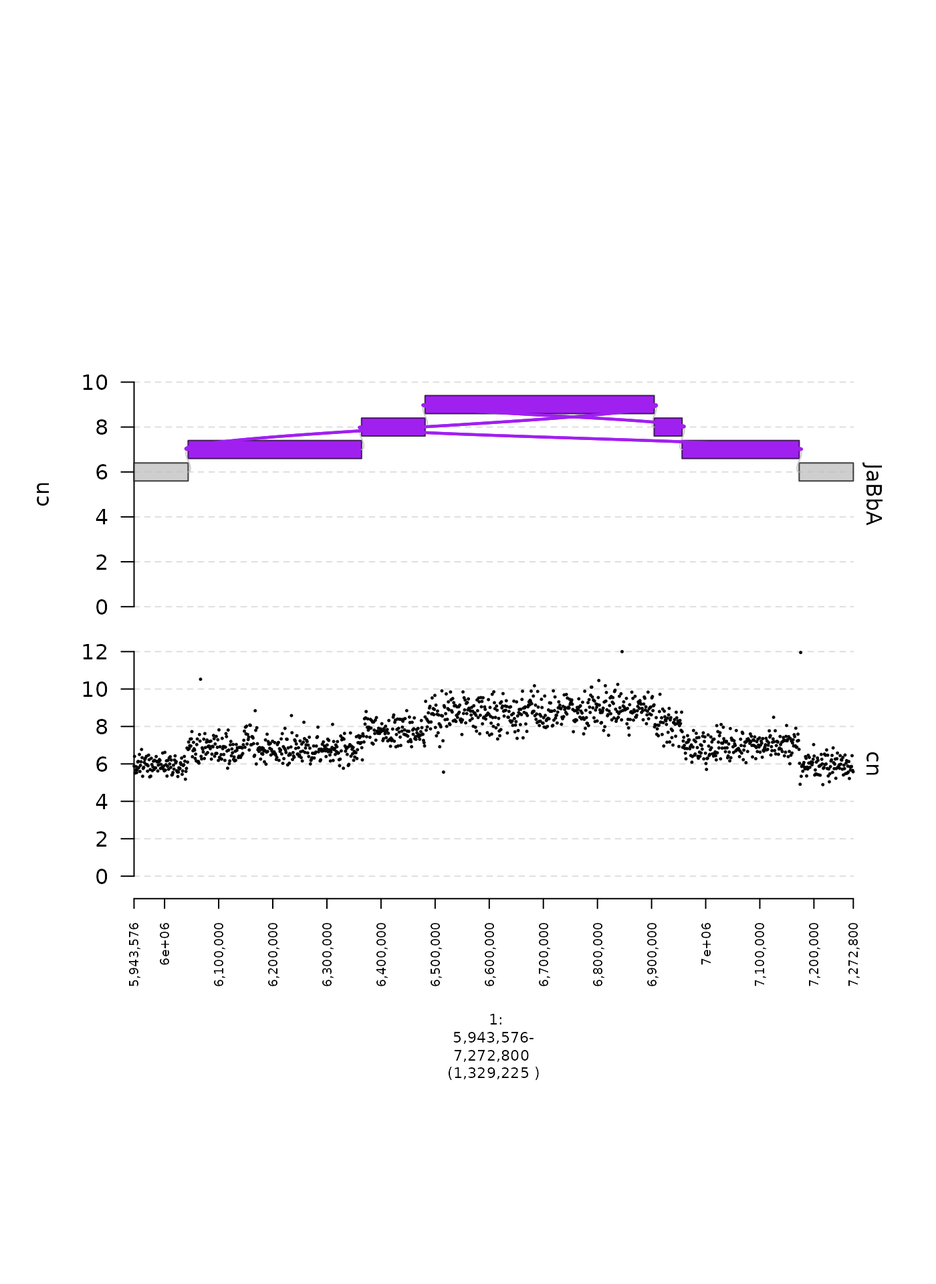
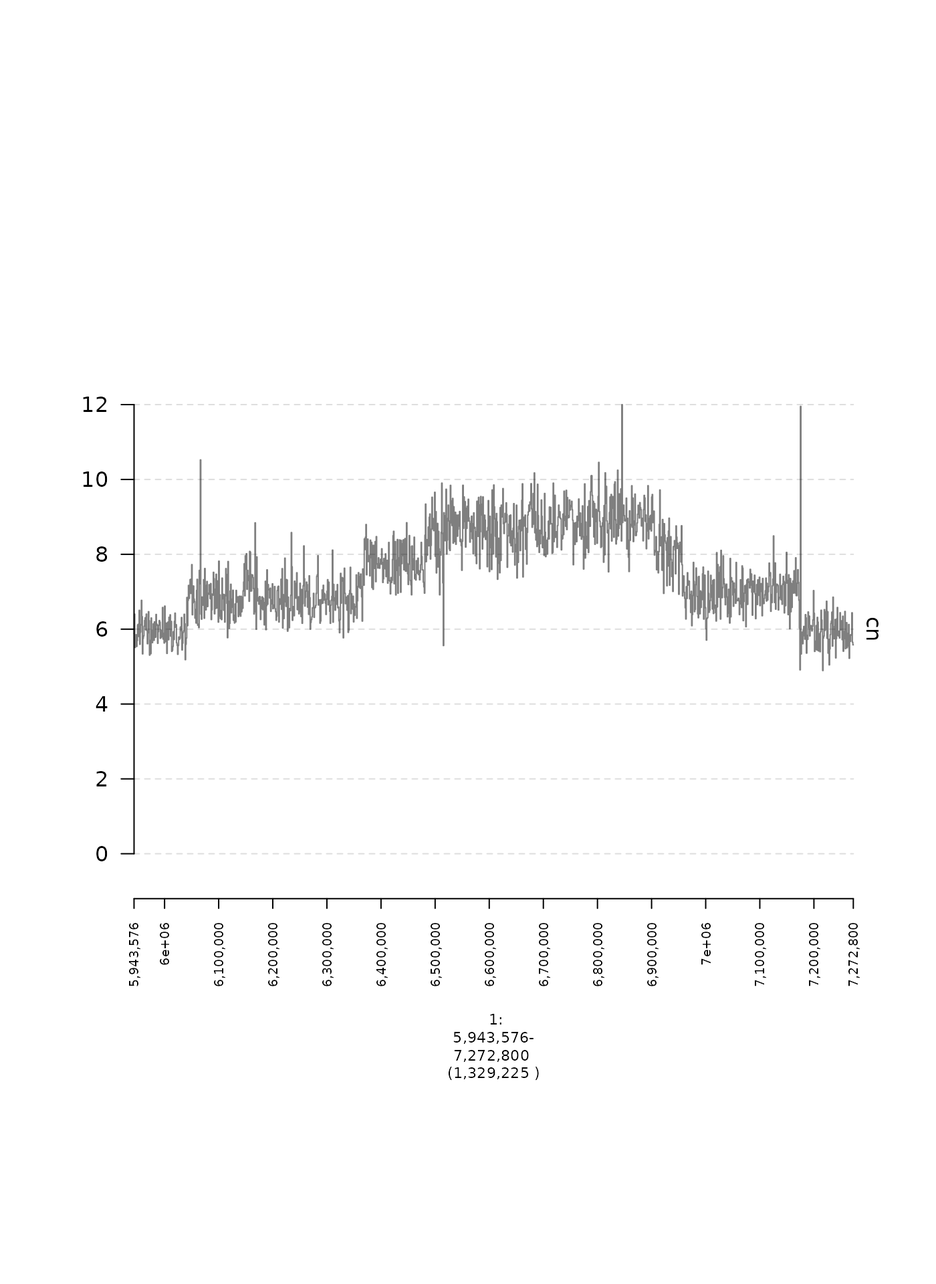
Deploying to gh-pages from @ zining01/gTrack@fb4e8e4ecd5b667f04a0693977f4defb36c34628 🚀

diff --git a/articles/quickstart.html b/articles/quickstart.html
@@ -99,48 +99,82 @@
 <p>GRanges can be used as the starting point for creating scatter plots, bar plots, and line plots. The <code>x</code>-coordinate of each data point in these plots is specified by the genomic position, while the <code>y</code>-coordinate is stored in a user-defined metadata column of the <code>GRanges</code> object.</p>
 <p>In this example, we will create <code>gTrack</code>s to plot read depth in 1 Kbp genomic intervals.</p>
 <div class="section level3">
-<h3 id="scatter-plot">Scatter plot<a class="anchor" aria-label="anchor" href="#scatter-plot"></a>
+<h3 id="rectangles">Rectangles<a class="anchor" aria-label="anchor" href="#rectangles"></a>
 </h3>
-<p>In this first example, we will create a scatter plot. The (normalized) read depth is contained in a metadata column called <code>cn</code>. We need to specify this column name in the argument <code>y.field</code> when creating our gTrack. In addition, to create a scatter plot, we need to set the parameter <code>circles</code> to <code>TRUE</code>. The parameter <code>lwd.border</code> controls the size of the points in the scatter plot, the parameter <code>y0</code> controls the starting position on the y axis, and the parameter <code>y1</code> controls the ending position on the y axis.</p>
+<p>The most basic plot in gTrack will represent each supplied genomic interval as a rectangle. If strand is provided, the verticle edges of the rectangle will be bent in a direction indicating strand (towards the right for <code>+</code> stranded intervals, and towards the left for <code>-</code> stranded intervals. This <code>GRanges</code> contains genomic bins that are all 1 Kbp in width without a strand. However, for the purposes of demonstration, we will also plot some stranded intervals to demonstrate the effect.</p>
 <div class="sourceCode" id="cb1"><pre class="downlit sourceCode r">
 <code class="sourceCode R"><span><span class="va">coverage.gr</span> <span class="op">=</span> <span class="fu"><a href="https://rdrr.io/r/base/readRDS.html" class="external-link">readRDS</a></span><span class="op">(</span><span class="fu"><a href="https://rdrr.io/r/base/system.file.html" class="external-link">system.file</a></span><span class="op">(</span><span class="st">"extdata"</span>, <span class="st">"ovcar.subgraph.coverage.rds"</span>, package <span class="op">=</span> <span class="st">"gTrack"</span><span class="op">)</span><span class="op">)</span></span>
-<span><span class="va">coverage.gt</span> <span class="op">=</span> <span class="fu"><a href="../reference/gTrack-class.html">gTrack</a></span><span class="op">(</span><span class="va">coverage.gr</span>, y.field <span class="op">=</span> <span class="st">"cn"</span>, circles <span class="op">=</span> <span class="cn">TRUE</span>, lwd.border <span class="op">=</span> <span class="fl">0.2</span>, y0 <span class="op">=</span> <span class="fl">0</span>, y1 <span class="op">=</span> <span class="fl">12</span><span class="op">)</span></span></code></pre></div>
+<span></span>
+<span><span class="co">## create a plus stranded interval</span></span>
+<span><span class="va">plus.coverage.gr</span> <span class="op">=</span> <span class="fu"><a href="https://rdrr.io/r/base/readRDS.html" class="external-link">readRDS</a></span><span class="op">(</span><span class="fu"><a href="https://rdrr.io/r/base/system.file.html" class="external-link">system.file</a></span><span class="op">(</span><span class="st">"extdata"</span>, <span class="st">"ovcar.subgraph.coverage.rds"</span>, package <span class="op">=</span> <span class="st">"gTrack"</span><span class="op">)</span><span class="op">)</span></span>
+<span><span class="fu">strand</span><span class="op">(</span><span class="va">plus.coverage.gr</span><span class="op">)</span> <span class="op">=</span> <span class="st">"+"</span></span>
+<span><span class="va">minus.coverage.gr</span> <span class="op">=</span> <span class="fu"><a href="https://rdrr.io/r/base/readRDS.html" class="external-link">readRDS</a></span><span class="op">(</span><span class="fu"><a href="https://rdrr.io/r/base/system.file.html" class="external-link">system.file</a></span><span class="op">(</span><span class="st">"extdata"</span>, <span class="st">"ovcar.subgraph.coverage.rds"</span>, package <span class="op">=</span> <span class="st">"gTrack"</span><span class="op">)</span><span class="op">)</span></span>
+<span><span class="fu">strand</span><span class="op">(</span><span class="va">minus.coverage.gr</span><span class="op">)</span> <span class="op">=</span> <span class="st">"-"</span></span>
+<span></span>
+<span><span class="co">## create gTracks</span></span>
+<span><span class="va">coverage.gt</span> <span class="op">=</span> <span class="fu"><a href="../reference/gTrack-class.html">gTrack</a></span><span class="op">(</span><span class="va">coverage.gr</span><span class="op">)</span></span>
+<span><span class="va">plus.coverage.gt</span> <span class="op">=</span> <span class="fu"><a href="../reference/gTrack-class.html">gTrack</a></span><span class="op">(</span><span class="va">plus.coverage.gr</span><span class="op">)</span></span>
+<span><span class="va">minus.coverage.gt</span> <span class="op">=</span> <span class="fu"><a href="../reference/gTrack-class.html">gTrack</a></span><span class="op">(</span><span class="va">minus.coverage.gr</span><span class="op">)</span></span></code></pre></div>
 <p>To generate a plot, the <code>plot</code> method is used, which takes two positional arguments, a <code>gTrack</code> and a genomic window over which to generate the plot. The genomic window can be specified as either a <code>GRanges</code>, <code>GRangesList</code>, or a character vector that can be parsed as <code>GRanges</code>. (If <code>window</code> is <code>NULL</code>, then all genomic regions defined in the supplied gTrack will be plotted).</p>
+<p>Here is the original (unstranded) intervals:</p>
 <div class="sourceCode" id="cb2"><pre class="downlit sourceCode r">
+<code class="sourceCode R"><span><span class="co">## specify genomic region that will be plotted</span></span>
+<span><span class="va">fp</span> <span class="op">=</span> <span class="fu">parse.gr</span><span class="op">(</span><span class="st">"1:6850000-7050000"</span><span class="op">)</span></span>
+<span><span class="fu"><a href="https://rdrr.io/r/graphics/plot.default.html" class="external-link">plot</a></span><span class="op">(</span><span class="va">coverage.gt</span>, <span class="va">fp</span><span class="op">)</span></span></code></pre></div>
+<p><img src="quickstart_files/figure-html/unnamed-chunk-3-1.png" width="700"></p>
+<p>Here is the <code>+</code> stranded intervals:</p>
+<div class="sourceCode" id="cb3"><pre class="downlit sourceCode r">
+<code class="sourceCode R"><span><span class="co">## specify genomic region that will be plotted</span></span>
+<span><span class="fu"><a href="https://rdrr.io/r/graphics/plot.default.html" class="external-link">plot</a></span><span class="op">(</span><span class="va">plus.coverage.gt</span>, <span class="va">fp</span><span class="op">)</span></span></code></pre></div>
+<p><img src="quickstart_files/figure-html/unnamed-chunk-4-1.png" width="700"></p>
+<p>Here is the <code>-</code> stranded intervals:</p>
+<div class="sourceCode" id="cb4"><pre class="downlit sourceCode r">
+<code class="sourceCode R"><span><span class="co">## specify genomic region that will be plotted</span></span>
+<span><span class="fu"><a href="https://rdrr.io/r/graphics/plot.default.html" class="external-link">plot</a></span><span class="op">(</span><span class="va">minus.coverage.gt</span>, <span class="va">fp</span><span class="op">)</span></span></code></pre></div>
+<p><img src="quickstart_files/figure-html/unnamed-chunk-5-1.png" width="700"></p>
+</div>
+<div class="section level3">
+<h3 id="scatter-plot">Scatter plot<a class="anchor" aria-label="anchor" href="#scatter-plot"></a>
+</h3>
+<p>In this example, we will create a scatter plot. In this <code>GRanges</code>, the (normalized) read depth is contained in a metadata column called <code>cn</code>. We need to specify this column name in the argument <code>y.field</code> when creating our gTrack. To create a scatter plot, we need to set the parameter <code>circles</code> to <code>TRUE</code>. The parameter <code>lwd.border</code> controls the size of the points in the scatter plot, the parameter <code>y0</code> controls the starting position on the y axis, and the parameter <code>y1</code> controls the ending position on the y axis.</p>
+<div class="sourceCode" id="cb5"><pre class="downlit sourceCode r">
+<code class="sourceCode R"><span><span class="va">coverage.gr</span> <span class="op">=</span> <span class="fu"><a href="https://rdrr.io/r/base/readRDS.html" class="external-link">readRDS</a></span><span class="op">(</span><span class="fu"><a href="https://rdrr.io/r/base/system.file.html" class="external-link">system.file</a></span><span class="op">(</span><span class="st">"extdata"</span>, <span class="st">"ovcar.subgraph.coverage.rds"</span>, package <span class="op">=</span> <span class="st">"gTrack"</span><span class="op">)</span><span class="op">)</span></span>
+<span><span class="va">coverage.gt</span> <span class="op">=</span> <span class="fu"><a href="../reference/gTrack-class.html">gTrack</a></span><span class="op">(</span><span class="va">coverage.gr</span>, y.field <span class="op">=</span> <span class="st">"cn"</span>, circles <span class="op">=</span> <span class="cn">TRUE</span>, lwd.border <span class="op">=</span> <span class="fl">0.2</span>, y0 <span class="op">=</span> <span class="fl">0</span>, y1 <span class="op">=</span> <span class="fl">12</span><span class="op">)</span></span></code></pre></div>
+<div class="sourceCode" id="cb6"><pre class="downlit sourceCode r">
 <code class="sourceCode R"><span><span class="co">## specify genomic region that will be plotted</span></span>
 <span><span class="va">fp</span> <span class="op">=</span> <span class="fu">parse.gr</span><span class="op">(</span><span class="st">"1:6043576-7172800"</span><span class="op">)</span></span>
 <span><span class="fu"><a href="https://rdrr.io/r/graphics/plot.default.html" class="external-link">plot</a></span><span class="op">(</span><span class="va">coverage.gt</span>, <span class="va">fp</span> <span class="op">+</span> <span class="fl">1e5</span><span class="op">)</span></span></code></pre></div>
-<p><img src="quickstart_files/figure-html/unnamed-chunk-3-1.png" width="700"></p>
+<p><img src="quickstart_files/figure-html/unnamed-chunk-7-1.png" width="700"></p>
 </div>
 <div class="section level3">
 <h3 id="bar-plot">Bar plot<a class="anchor" aria-label="anchor" href="#bar-plot"></a>
 </h3>
 <p>Next, we will plot the same data as a bar plot. To do this, we will set the parameter <code>bars</code> to <code>TRUE</code>.</p>
-<div class="sourceCode" id="cb3"><pre class="downlit sourceCode r">
+<div class="sourceCode" id="cb7"><pre class="downlit sourceCode r">
 <code class="sourceCode R"><span><span class="va">coverage.bars.gt</span> <span class="op">=</span> <span class="fu"><a href="../reference/gTrack-class.html">gTrack</a></span><span class="op">(</span><span class="va">coverage.gr</span>, y.field <span class="op">=</span> <span class="st">"cn"</span>, bars <span class="op">=</span> <span class="cn">TRUE</span>, y0 <span class="op">=</span> <span class="fl">0</span>, y1 <span class="op">=</span> <span class="fl">12</span><span class="op">)</span></span>
 <span></span>
 <span><span class="fu"><a href="https://rdrr.io/r/graphics/plot.default.html" class="external-link">plot</a></span><span class="op">(</span><span class="va">coverage.bars.gt</span>, <span class="va">fp</span> <span class="op">+</span> <span class="fl">1e5</span><span class="op">)</span></span></code></pre></div>
-<p><img src="quickstart_files/figure-html/unnamed-chunk-4-1.png" width="700"></p>
+<p><img src="quickstart_files/figure-html/unnamed-chunk-8-1.png" width="700"></p>
 </div>
 <div class="section level3">
 <h3 id="line-plot">Line plot<a class="anchor" aria-label="anchor" href="#line-plot"></a>
 </h3>
 <p>Finally, we will plot these data as a line plot, by setting <code>lines</code> to <code>TRUE</code>.</p>
-<div class="sourceCode" id="cb4"><pre class="downlit sourceCode r">
+<div class="sourceCode" id="cb8"><pre class="downlit sourceCode r">
 <code class="sourceCode R"><span><span class="va">coverage.lines.gt</span> <span class="op">=</span> <span class="fu"><a href="../reference/gTrack-class.html">gTrack</a></span><span class="op">(</span><span class="va">coverage.gr</span>, y.field <span class="op">=</span> <span class="st">"cn"</span>, lines <span class="op">=</span> <span class="cn">TRUE</span>, y0 <span class="op">=</span> <span class="fl">0</span>, y1 <span class="op">=</span> <span class="fl">12</span><span class="op">)</span></span>
 <span></span>
 <span><span class="fu"><a href="https://rdrr.io/r/graphics/plot.default.html" class="external-link">plot</a></span><span class="op">(</span><span class="va">coverage.lines.gt</span>, <span class="va">fp</span> <span class="op">+</span> <span class="fl">1e5</span><span class="op">)</span></span></code></pre></div>
-<p><img src="quickstart_files/figure-html/unnamed-chunk-5-1.png" width="700"></p>
+<p><img src="quickstart_files/figure-html/unnamed-chunk-9-1.png" width="700"></p>
 </div>
 <div class="section level3">
 <h3 id="multiple-plots">Multiple plots<a class="anchor" aria-label="anchor" href="#multiple-plots"></a>
 </h3>
 <p>A useful feature of <code>gTrack</code> objects is that multiple tracks can be concatenated to produce stacked subplots, as shown in the following example. The direction of concatenation is from the bottom up (so the first <code>gTrack</code> corresponds with the bottom-most subplot and the final <code>gTrack</code> corresponds with the top-most subplot).</p>
-<div class="sourceCode" id="cb5"><pre class="downlit sourceCode r">
+<div class="sourceCode" id="cb9"><pre class="downlit sourceCode r">
 <code class="sourceCode R"><span><span class="va">concatenated.gt</span> <span class="op">=</span> <span class="fu"><a href="../reference/c-methods.html">c</a></span><span class="op">(</span><span class="va">coverage.gt</span>, <span class="va">coverage.bars.gt</span>, <span class="va">coverage.lines.gt</span><span class="op">)</span></span>
 <span></span>
 <span><span class="fu"><a href="https://rdrr.io/r/graphics/plot.default.html" class="external-link">plot</a></span><span class="op">(</span><span class="va">concatenated.gt</span>, <span class="va">fp</span> <span class="op">+</span> <span class="fl">1e5</span><span class="op">)</span></span></code></pre></div>
-<p><img src="quickstart_files/figure-html/unnamed-chunk-6-1.png" width="700"></p>
+<p><img src="quickstart_files/figure-html/unnamed-chunk-10-1.png" width="700"></p>
 </div>
 </div>
 <div class="section level2">
@@ -150,12 +184,12 @@
 <p>In this example, we will create a gTrack from junction-supporting read pairs. Briefly, these are read pairs that form split, gapped, or discordant alignments, hinting at the existence of a genomic rearrangement.</p>
 <p>The alignments associated with each read pair are represented by a single entry in this example’s <code>GRangesList</code>. In the corresponding gTrack, alignments from the same <code>GRangesList</code> entry are linked together by a light gray horizontal line, making it easy for them to be visually associated.</p>
 <p>You can see that there are many junction-supporting reads associated with read depth change points in the coverage <code>gTrack</code> which makes sense because aberrant adjacencies can produce copy number variants.</p>
-<div class="sourceCode" id="cb6"><pre class="downlit sourceCode r">
+<div class="sourceCode" id="cb10"><pre class="downlit sourceCode r">
 <code class="sourceCode R"><span><span class="va">reads</span> <span class="op">=</span> <span class="fu"><a href="https://rdrr.io/r/base/readRDS.html" class="external-link">readRDS</a></span><span class="op">(</span><span class="fu"><a href="https://rdrr.io/r/base/system.file.html" class="external-link">system.file</a></span><span class="op">(</span><span class="st">"extdata"</span>, <span class="st">"ovcar.subgraph.reads.rds"</span>, package <span class="op">=</span> <span class="st">"gTrack"</span><span class="op">)</span><span class="op">)</span></span>
 <span><span class="va">reads.gt</span> <span class="op">=</span> <span class="fu"><a href="../reference/gTrack-class.html">gTrack</a></span><span class="op">(</span><span class="va">reads</span><span class="op">)</span></span>
 <span></span>
 <span><span class="fu"><a href="https://rdrr.io/r/graphics/plot.default.html" class="external-link">plot</a></span><span class="op">(</span><span class="fu"><a href="../reference/c-methods.html">c</a></span><span class="op">(</span><span class="va">coverage.gt</span>, <span class="va">reads.gt</span><span class="op">)</span>, <span class="va">fp</span> <span class="op">+</span> <span class="fl">1e5</span><span class="op">)</span></span></code></pre></div>
-<p><img src="quickstart_files/figure-html/unnamed-chunk-7-1.png" width="700"></p>
+<p><img src="quickstart_files/figure-html/unnamed-chunk-11-1.png" width="700"></p>
 </div>
 <div class="section level2">
 <h2 id="matrices">Matrices<a class="anchor" aria-label="anchor" href="#matrices"></a>
@@ -166,14 +200,14 @@
 <p>A <code>gTrack</code> can be created from a <code>GRanges</code> and a corresponding adjacency matrix in order to plot associations between two genomic ranges. One example of this would be a heatmap, where the color of each cell is proportional to some value defined by its corresponding genomic regions.</p>
 <p>In this example, we will create a heatmap of the number of shared read <code>qname</code>s between pairs of genomic intervals. We will read a <code>GRanges</code> and associated <code>matrix</code> and create a <code>gTrack</code> from these inputs, which we will plot alongside the coverage.</p>
 <p>As you can see, the off-diagonal elements correspond with copy number changep points in the coverage!</p>
-<div class="sourceCode" id="cb7"><pre class="downlit sourceCode r">
+<div class="sourceCode" id="cb11"><pre class="downlit sourceCode r">
 <code class="sourceCode R"><span><span class="va">mdata.mat</span> <span class="op">=</span> <span class="fu"><a href="https://rdrr.io/r/base/readRDS.html" class="external-link">readRDS</a></span><span class="op">(</span><span class="fu"><a href="https://rdrr.io/r/base/system.file.html" class="external-link">system.file</a></span><span class="op">(</span><span class="st">"extdata"</span>, <span class="st">"ovcar.subgraph.mdata.mat.rds"</span>, package <span class="op">=</span> <span class="st">"gTrack"</span><span class="op">)</span><span class="op">)</span></span>
 <span><span class="va">mdata.gr</span> <span class="op">=</span> <span class="fu"><a href="https://rdrr.io/r/base/readRDS.html" class="external-link">readRDS</a></span><span class="op">(</span><span class="fu"><a href="https://rdrr.io/r/base/system.file.html" class="external-link">system.file</a></span><span class="op">(</span><span class="st">"extdata"</span>, <span class="st">"ovcar.subgraph.mdata.gr.rds"</span>, package <span class="op">=</span> <span class="st">"gTrack"</span><span class="op">)</span><span class="op">)</span></span>
 <span></span>
 <span><span class="va">heatmap.gt</span> <span class="op">=</span> <span class="fu"><a href="../reference/gTrack-class.html">gTrack</a></span><span class="op">(</span><span class="va">mdata.gr</span>, mdata <span class="op">=</span> <span class="va">mdata.mat</span>, cmap.max <span class="op">=</span> <span class="fl">10</span><span class="op">)</span></span>
 <span></span>
 <span><span class="fu"><a href="https://rdrr.io/r/graphics/plot.default.html" class="external-link">plot</a></span><span class="op">(</span><span class="fu"><a href="../reference/c-methods.html">c</a></span><span class="op">(</span><span class="va">coverage.gt</span>, <span class="va">heatmap.gt</span><span class="op">)</span>, <span class="va">fp</span> <span class="op">+</span> <span class="fl">1e5</span><span class="op">)</span></span></code></pre></div>
-<p><img src="quickstart_files/figure-html/unnamed-chunk-8-1.png" width="700"></p>
+<p><img src="quickstart_files/figure-html/unnamed-chunk-12-1.png" width="700"></p>
 </div>
 <div class="section level3">
 <h3 id="connections-edges">Connections (edges)<a class="anchor" aria-label="anchor" href="#connections-edges"></a>
@@ -189,30 +223,30 @@
 </h2>
 <p><code>gGraph</code>s are genome graphs in which nodes represent (signed) genomic intervals, and edges represent adjacencies between those intervals (see our <code>gGnome</code> package <a href="https://github.com/mskilab/gGnome" class="external-link">here</a>!).</p>
 <p>A <code>gTrack</code> can be created from a <code>gGraph</code> using either the <code>$gt</code> active field or <code>$gtrack</code> method, as shown below. In this example, we will create a plot of a tumor <code>gGraph</code> and the associated coverage profile.</p>
-<div class="sourceCode" id="cb8"><pre class="downlit sourceCode r">
+<div class="sourceCode" id="cb12"><pre class="downlit sourceCode r">
 <code class="sourceCode R"><span><span class="va">gg</span> <span class="op">=</span> <span class="fu"><a href="https://rdrr.io/r/base/readRDS.html" class="external-link">readRDS</a></span><span class="op">(</span><span class="fu"><a href="https://rdrr.io/r/base/system.file.html" class="external-link">system.file</a></span><span class="op">(</span><span class="st">"extdata"</span>, <span class="st">"ovcar.subgraph.rds"</span>, package <span class="op">=</span> <span class="st">"gTrack"</span><span class="op">)</span><span class="op">)</span></span>
 <span><span class="fu"><a href="https://rdrr.io/r/graphics/plot.default.html" class="external-link">plot</a></span><span class="op">(</span><span class="fu"><a href="../reference/c-methods.html">c</a></span><span class="op">(</span><span class="va">coverage.gt</span>, <span class="va">gg</span><span class="op">$</span><span class="va">gt</span><span class="op">)</span>, <span class="va">fp</span> <span class="op">+</span> <span class="fl">1e5</span><span class="op">)</span></span></code></pre></div>
-<p><img src="quickstart_files/figure-html/unnamed-chunk-9-1.png" width="700"></p>
+<p><img src="quickstart_files/figure-html/unnamed-chunk-13-1.png" width="700"></p>
 </div>
 <div class="section level2">
 <h2 id="gwalk">gWalk<a class="anchor" aria-label="anchor" href="#gwalk"></a>
 </h2>
 <p><code>gWalk</code>s represent paths through a <code>gGraph</code>. Generally, they represent somatic haplotypes that could exist in a genome corresponding with a give <code>gGraph</code> (more details in the <code>gGnome</code> package!). Like <code>gGraph</code>s, <code>gWalk</code>s have active field <code>$gt</code> and method <code>$gtrack</code>, both of which will produce a <code>gTrack</code>.</p>
 <p>The following example plots a set of <code>gWalk</code>s associated with the <code>gGraph</code> plotted above.</p>
-<div class="sourceCode" id="cb9"><pre class="downlit sourceCode r">
+<div class="sourceCode" id="cb13"><pre class="downlit sourceCode r">
 <code class="sourceCode R"><span><span class="va">wks</span> <span class="op">=</span> <span class="fu"><a href="https://rdrr.io/r/base/readRDS.html" class="external-link">readRDS</a></span><span class="op">(</span><span class="fu"><a href="https://rdrr.io/r/base/system.file.html" class="external-link">system.file</a></span><span class="op">(</span><span class="st">"extdata"</span>, <span class="st">"ovcar.subgraph.walks.rds"</span>, package <span class="op">=</span> <span class="st">"gTrack"</span><span class="op">)</span><span class="op">)</span></span>
 <span><span class="fu"><a href="https://rdrr.io/r/graphics/plot.default.html" class="external-link">plot</a></span><span class="op">(</span><span class="fu"><a href="../reference/c-methods.html">c</a></span><span class="op">(</span><span class="va">coverage.gt</span>, <span class="va">gg</span><span class="op">$</span><span class="va">gt</span>, <span class="va">wks</span><span class="op">$</span><span class="va">gt</span><span class="op">)</span>, <span class="va">fp</span> <span class="op">+</span> <span class="fl">1e5</span><span class="op">)</span></span></code></pre></div>
-<p><img src="quickstart_files/figure-html/unnamed-chunk-10-1.png" width="700"></p>
+<p><img src="quickstart_files/figure-html/unnamed-chunk-14-1.png" width="700"></p>
 </div>
 <div class="section level2">
 <h2 id="gmatrix">gMatrix<a class="anchor" aria-label="anchor" href="#gmatrix"></a>
 </h2>
 <p><code>gMatrix</code> is an object implemented in the package <code>GxG</code> that facilitates analysis and visualization of paired genomic intervals. There are many use cases for <code>gMatrix</code>, but the one used in this example is Hi-C data, which consists of read counts shared by pairs of genomic bins. We will plot the Hi-C profile associated with this locus.</p>
 <p>Again, similar to <code>gWalk</code> and <code>gGraph</code>, a <code>gTrack</code> can be created for a <code>gMatrix</code> with the active field <code>$gt</code> or method <code>$gtrack</code>. Here we will use the <code>$gtrack</code> method to set a parameter for coloring the heatmap (<code>cmap.max</code>).</p>
-<div class="sourceCode" id="cb10"><pre class="downlit sourceCode r">
+<div class="sourceCode" id="cb14"><pre class="downlit sourceCode r">
 <code class="sourceCode R"><span><span class="va">gm</span> <span class="op">=</span> <span class="fu"><a href="https://rdrr.io/r/base/readRDS.html" class="external-link">readRDS</a></span><span class="op">(</span><span class="fu"><a href="https://rdrr.io/r/base/system.file.html" class="external-link">system.file</a></span><span class="op">(</span><span class="st">"extdata"</span>, <span class="st">"ovcar.subgraph.hic.rds"</span>, package <span class="op">=</span> <span class="st">"gTrack"</span><span class="op">)</span><span class="op">)</span></span>
 <span><span class="fu"><a href="https://rdrr.io/r/graphics/plot.default.html" class="external-link">plot</a></span><span class="op">(</span><span class="fu"><a href="../reference/c-methods.html">c</a></span><span class="op">(</span><span class="va">coverage.gt</span>, <span class="va">gg</span><span class="op">$</span><span class="va">gt</span>, <span class="va">gm</span><span class="op">$</span><span class="fu">gtrack</span><span class="op">(</span>cmap.max <span class="op">=</span> <span class="fl">1000</span><span class="op">)</span><span class="op">)</span>, <span class="va">fp</span> <span class="op">+</span> <span class="fl">1e5</span><span class="op">)</span></span></code></pre></div>
-<p><img src="quickstart_files/figure-html/unnamed-chunk-11-1.png" width="700"></p>
+<p><img src="quickstart_files/figure-html/unnamed-chunk-15-1.png" width="700"></p>
 </div>
   </div>
 

diff --git a/articles/gtrackparams.html b/articles/gtrackparams.html
@@ -131,9 +131,9 @@
 <p><img src="gtrackparams_files/figure-html/unnamed-chunk-3-1.png" width="700"></p>
 </div>
 <div class="section level3">
-<h3 id="y-axis-label-yaxis">Y-axis label (yaxis)<a class="anchor" aria-label="anchor" href="#y-axis-label-yaxis"></a>
+<h3 id="displaying-or-hiding-the-y-axis-yaxis">Displaying or hiding the Y-axis (yaxis)<a class="anchor" aria-label="anchor" href="#displaying-or-hiding-the-y-axis-yaxis"></a>
 </h3>
-<p>The label of the Y-axis on the left side of a <code>gTrack</code> can be toggled on or off using the logical parameter <code>yaxis</code>, which has default value <code>TRUE</code> if <code>y.field</code> is specified and <code>FALSE</code> if not.</p>
+<p>The Y-axis of a <code>gTrack</code> can be toggled on or off entirely using the logical parameter <code>yaxis</code>, which has default value <code>TRUE</code> if <code>y.field</code> is specified and <code>FALSE</code> if not.</p>
 <p>Here is an example where <code>yaxis</code> is deliberately set as <code>FALSE</code> despite suppling a value to <code>y.field</code>.</p>
 <div class="sourceCode" id="cb3"><pre class="downlit sourceCode r">
 <code class="sourceCode R"><span><span class="va">coverage.gr</span> <span class="op">=</span> <span class="fu"><a href="https://rdrr.io/r/base/readRDS.html" class="external-link">readRDS</a></span><span class="op">(</span><span class="fu"><a href="https://rdrr.io/r/base/system.file.html" class="external-link">system.file</a></span><span class="op">(</span><span class="st">"extdata"</span>, <span class="st">"ovcar.subgraph.coverage.rds"</span>, package <span class="op">=</span> <span class="st">"gTrack"</span><span class="op">)</span><span class="op">)</span></span>
@@ -213,10 +213,10 @@
 <span><span class="va">tiles</span> <span class="op">=</span> <span class="fu">gUtils</span><span class="fu">::</span><span class="fu"><a href="https://rdrr.io/pkg/gUtils/man/gr.tile.html" class="external-link">gr.tile</a></span><span class="op">(</span><span class="va">win</span>, width <span class="op">=</span> <span class="fl">1e4</span><span class="op">)</span></span>
 <span></span>
 <span><span class="co">## gTrack without vertical staggering</span></span>
-<span><span class="va">tiles.gt</span> <span class="op">=</span> <span class="fu"><a href="../reference/gTrack-class.html">gTrack</a></span><span class="op">(</span><span class="va">tiles</span><span class="op">)</span></span>
+<span><span class="va">tiles.gt</span> <span class="op">=</span> <span class="fu"><a href="../reference/gTrack-class.html">gTrack</a></span><span class="op">(</span><span class="va">tiles</span>, name <span class="op">=</span> <span class="st">"original"</span><span class="op">)</span></span>
 <span></span>
 <span><span class="co">## stack intervals within 1 Kbp of each other</span></span>
-<span><span class="va">tiles.stack.gt</span> <span class="op">=</span> <span class="fu"><a href="../reference/gTrack-class.html">gTrack</a></span><span class="op">(</span><span class="va">tiles</span>, stack.gap <span class="op">=</span> <span class="fl">1000</span><span class="op">)</span></span>
+<span><span class="va">tiles.stack.gt</span> <span class="op">=</span> <span class="fu"><a href="../reference/gTrack-class.html">gTrack</a></span><span class="op">(</span><span class="va">tiles</span>, stack.gap <span class="op">=</span> <span class="fl">1000</span>, name <span class="op">=</span> <span class="st">"stacked"</span><span class="op">)</span></span>
 <span></span>
 <span><span class="fu"><a href="https://rdrr.io/r/graphics/plot.default.html" class="external-link">plot</a></span><span class="op">(</span><span class="fu"><a href="../reference/c-methods.html">c</a></span><span class="op">(</span><span class="va">tiles.gt</span>, <span class="va">tiles.stack.gt</span><span class="op">)</span>, <span class="va">win</span><span class="op">)</span></span></code></pre></div>
 <p><img src="gtrackparams_files/figure-html/unnamed-chunk-8-1.png" width="700"></p>
@@ -229,10 +229,10 @@
 <code class="sourceCode R"><span><span class="va">coverage.gr</span> <span class="op">=</span> <span class="fu"><a href="https://rdrr.io/r/base/readRDS.html" class="external-link">readRDS</a></span><span class="op">(</span><span class="fu"><a href="https://rdrr.io/r/base/system.file.html" class="external-link">system.file</a></span><span class="op">(</span><span class="st">"extdata"</span>, <span class="st">"ovcar.subgraph.coverage.rds"</span>, package <span class="op">=</span> <span class="st">"gTrack"</span><span class="op">)</span><span class="op">)</span></span>
 <span></span>
 <span><span class="co">## plot everything</span></span>
-<span><span class="va">coverage.gt</span> <span class="op">=</span> <span class="fu"><a href="../reference/gTrack-class.html">gTrack</a></span><span class="op">(</span><span class="va">coverage.gr</span>, y.field <span class="op">=</span> <span class="st">"cn"</span>, circles <span class="op">=</span> <span class="cn">TRUE</span>, lwd.border <span class="op">=</span> <span class="fl">0.2</span><span class="op">)</span></span>
+<span><span class="va">coverage.gt</span> <span class="op">=</span> <span class="fu"><a href="../reference/gTrack-class.html">gTrack</a></span><span class="op">(</span><span class="va">coverage.gr</span>, y.field <span class="op">=</span> <span class="st">"cn"</span>, circles <span class="op">=</span> <span class="cn">TRUE</span>, lwd.border <span class="op">=</span> <span class="fl">0.2</span>, name <span class="op">=</span> <span class="st">"original"</span><span class="op">)</span></span>
 <span></span>
 <span><span class="co">## only plot 50 points</span></span>
-<span><span class="va">coverage.downsample.gt</span> <span class="op">=</span> <span class="fu"><a href="../reference/gTrack-class.html">gTrack</a></span><span class="op">(</span><span class="va">coverage.gr</span>, y.field <span class="op">=</span> <span class="st">"cn"</span>, circles <span class="op">=</span> <span class="cn">TRUE</span>, lwd.border <span class="op">=</span> <span class="fl">0.2</span>, max.ranges <span class="op">=</span> <span class="fl">50</span><span class="op">)</span></span>
+<span><span class="va">coverage.downsample.gt</span> <span class="op">=</span> <span class="fu"><a href="../reference/gTrack-class.html">gTrack</a></span><span class="op">(</span><span class="va">coverage.gr</span>, y.field <span class="op">=</span> <span class="st">"cn"</span>, circles <span class="op">=</span> <span class="cn">TRUE</span>, lwd.border <span class="op">=</span> <span class="fl">0.2</span>, max.ranges <span class="op">=</span> <span class="fl">50</span>, name <span class="op">=</span> <span class="st">"downsampled"</span><span class="op">)</span></span>
 <span></span>
 <span><span class="va">fp</span> <span class="op">=</span> <span class="fu">parse.gr</span><span class="op">(</span><span class="st">"1:6043576-7172800"</span><span class="op">)</span></span>
 <span><span class="fu"><a href="https://rdrr.io/r/graphics/plot.default.html" class="external-link">plot</a></span><span class="op">(</span><span class="fu"><a href="../reference/c-methods.html">c</a></span><span class="op">(</span><span class="va">coverage.gt</span>, <span class="va">coverage.downsample.gt</span><span class="op">)</span>, <span class="va">fp</span> <span class="op">+</span> <span class="fl">1e5</span><span class="op">)</span></span></code></pre></div>
@@ -242,6 +242,41 @@
 <div class="section level2">
 <h2 id="data-labels">Data labels<a class="anchor" aria-label="anchor" href="#data-labels"></a>
 </h2>
+<p>By default, named <code>GRanges</code> and <code>GRangesList</code> are labeled in <code>gTrack</code>. This behavior is illustrated in the following example.</p>
+<div class="sourceCode" id="cb9"><pre class="downlit sourceCode r">
+<code class="sourceCode R"><span><span class="co">## define plotting window</span></span>
+<span><span class="va">win</span> <span class="op">=</span> <span class="fu">GRanges</span><span class="op">(</span>seqnames <span class="op">=</span> <span class="st">"1"</span>, ranges <span class="op">=</span> <span class="fu">IRanges</span><span class="op">(</span>start <span class="op">=</span> <span class="fl">1</span>, width <span class="op">=</span> <span class="fl">1e5</span><span class="op">)</span><span class="op">)</span></span>
+<span></span>
+<span><span class="co">## create named GRanges</span></span>
+<span><span class="va">gr</span> <span class="op">=</span> <span class="fu">GRanges</span><span class="op">(</span>seqnames <span class="op">=</span> <span class="st">"1"</span>, ranges <span class="op">=</span> <span class="fu">IRanges</span><span class="op">(</span>start <span class="op">=</span> <span class="fu"><a href="../reference/c-methods.html">c</a></span><span class="op">(</span><span class="fl">1</span>, <span class="fl">50001</span><span class="op">)</span>, width <span class="op">=</span> <span class="fl">1e3</span><span class="op">)</span>, strand <span class="op">=</span> <span class="st">"+"</span>, other_labels <span class="op">=</span> <span class="fu"><a href="../reference/c-methods.html">c</a></span><span class="op">(</span><span class="st">"C"</span>, <span class="st">"D"</span><span class="op">)</span><span class="op">)</span></span>
+<span><span class="fu"><a href="https://rdrr.io/r/base/names.html" class="external-link">names</a></span><span class="op">(</span><span class="va">gr</span><span class="op">)</span> <span class="op">=</span> <span class="fu"><a href="../reference/c-methods.html">c</a></span><span class="op">(</span><span class="st">"A"</span>, <span class="st">"B"</span><span class="op">)</span></span>
+<span></span>
+<span><span class="co">## create gTrack</span></span>
+<span><span class="va">gt</span> <span class="op">=</span> <span class="fu"><a href="../reference/gTrack-class.html">gTrack</a></span><span class="op">(</span><span class="va">gr</span>, name <span class="op">=</span> <span class="st">"original"</span><span class="op">)</span></span>
+<span></span>
+<span><span class="fu"><a href="https://rdrr.io/r/graphics/plot.default.html" class="external-link">plot</a></span><span class="op">(</span><span class="fu"><a href="../reference/c-methods.html">c</a></span><span class="op">(</span><span class="va">gt</span><span class="op">)</span>, <span class="va">win</span><span class="op">)</span></span></code></pre></div>
+<p><img src="gtrackparams_files/figure-html/unnamed-chunk-10-1.png" width="700"></p>
+<div class="section level3">
+<h3 id="suppressing-labels">Suppressing labels<a class="anchor" aria-label="anchor" href="#suppressing-labels"></a>
+</h3>
+<p>These labels can be hidden by setting <code>labels.suppress</code> to <code>TRUE</code>. If you want to specifically supress labels of a <code>GRanges</code> or <code>GRangesList</code>, you can also use <code>labels.suppress.gr</code> or <code>labels.suppress.grl</code>.</p>
+<div class="sourceCode" id="cb10"><pre class="downlit sourceCode r">
+<code class="sourceCode R"><span><span class="co">## create gTrack with no labels</span></span>
+<span><span class="va">nolabels.gt</span> <span class="op">=</span> <span class="fu"><a href="../reference/gTrack-class.html">gTrack</a></span><span class="op">(</span><span class="va">gr</span>, labels.suppress <span class="op">=</span> <span class="cn">TRUE</span>, name <span class="op">=</span> <span class="st">"no labels"</span><span class="op">)</span></span>
+<span></span>
+<span><span class="fu"><a href="https://rdrr.io/r/graphics/plot.default.html" class="external-link">plot</a></span><span class="op">(</span><span class="fu"><a href="../reference/c-methods.html">c</a></span><span class="op">(</span><span class="va">gt</span>, <span class="va">nolabels.gt</span><span class="op">)</span>, <span class="va">win</span><span class="op">)</span></span></code></pre></div>
+<p><img src="gtrackparams_files/figure-html/unnamed-chunk-11-1.png" width="700"></p>
+</div>
+<div class="section level3">
+<h3 id="specifying-labels">Specifying labels<a class="anchor" aria-label="anchor" href="#specifying-labels"></a>
+</h3>
+<p>Labels can also be specified in a metadata column of a <code>GRanges</code> or <code>GRangesList</code>. To use these labels, the name of the relevant column should be passed as an argument for <code>gr.labelfield</code> or <code>grl.labelfield</code>, as seen in the example below.</p>
+<div class="sourceCode" id="cb11"><pre class="downlit sourceCode r">
+<code class="sourceCode R"><span><span class="va">otherlabels.gt</span> <span class="op">=</span> <span class="fu"><a href="../reference/gTrack-class.html">gTrack</a></span><span class="op">(</span><span class="va">gr</span>, gr.labelfield <span class="op">=</span> <span class="st">"other_labels"</span>, name <span class="op">=</span> <span class="st">"other labels"</span><span class="op">)</span></span>
+<span></span>
+<span><span class="fu"><a href="https://rdrr.io/r/graphics/plot.default.html" class="external-link">plot</a></span><span class="op">(</span><span class="fu"><a href="../reference/c-methods.html">c</a></span><span class="op">(</span><span class="va">gt</span>, <span class="va">otherlabels.gt</span><span class="op">)</span>, <span class="va">win</span><span class="op">)</span></span></code></pre></div>
+<p><img src="gtrackparams_files/figure-html/unnamed-chunk-12-1.png" width="700"></p>
+</div>
 </div>
 <div class="section level2">
 <h2 id="point-and-line-style">Point and line style<a class="anchor" aria-label="anchor" href="#point-and-line-style"></a>
